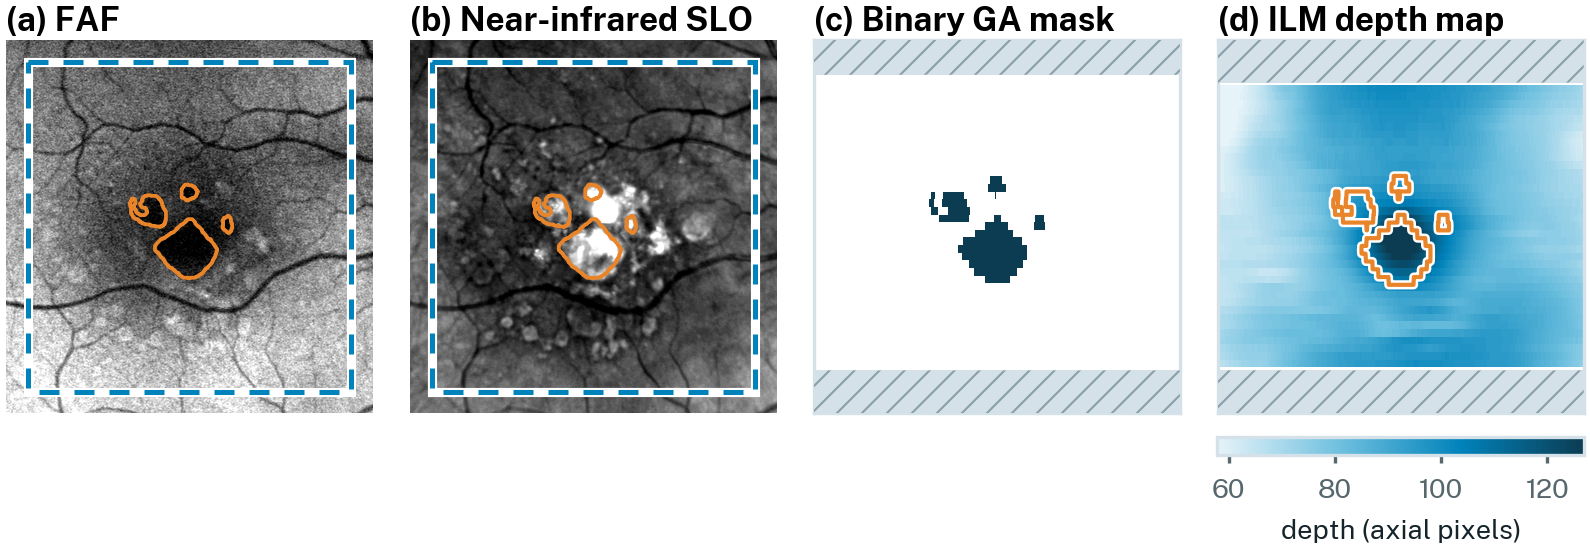
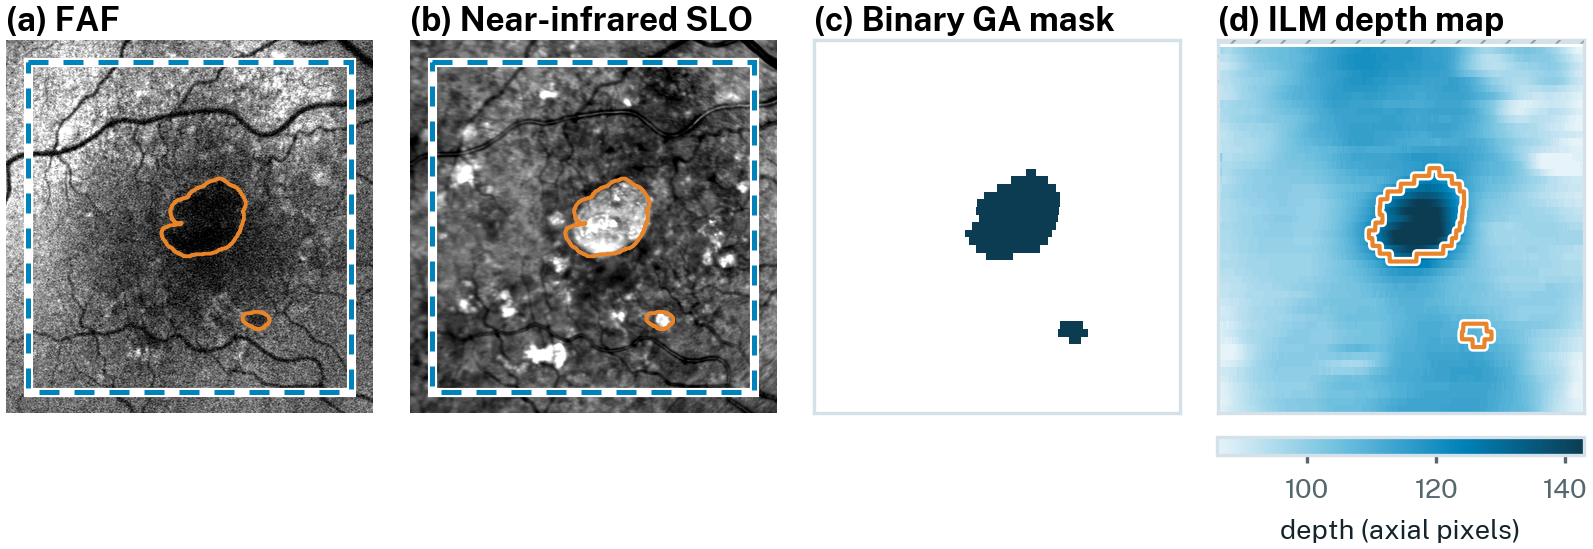
Fig. 3.1: eye PEAT0058_OD day 360 (ILM depth follows the lesion better: overlap 0.87 vs 0.62); caption numbers recomputed

diff --git a/03-data.tex b/03-data.tex
@@ -112,21 +112,23 @@ distributions are shown in Appendix~\ref{app:dataset}
 % (if wanted for the comparison in 5.5.1).
 
 % Figure fig:data:example-state: images/scripts/fig_data_example_state.py
-% (read-only source data/MUW_GA/scans/PEAT0021_OD/0/; same eye and day as
-% fig:bg:ga-faf (a)). Native grid 38 x 1059, so 22.4 % of the window is zero
-% padding (11 rows); 2.0 % of the window lies inside the scan without an ILM
-% value. mask_global through T_mask reproduces mask_oct at IoU 1.000.
-% Median brightness inside the lesion / in a 30 px ring around it: SLO
-% 124 / 93, FAF 63 / 90 (2026-10-20). The bright SLO spots outside the
-% outline are not dark on FAF; what they are is not recorded in the data.
-% Median ILM depth 114 axial px inside the lesion, 83 outside; retinal
-% thickness (channel 10 - channel 1) 66 inside, 83 outside.
+% (read-only source data/MUW_GA/scans/PEAT0058_OD/360/). Eye chosen by the
+% author (2026-10-20) from six candidates: the visits whose deepest ILM
+% pixels, as many as the lesion has, overlap the lesion best (Dice 0.87;
+% cohort median 0.64; earlier choice PEAT0021_OD day 0: 0.62), lesion not
+% touching the window edge. Native grid 49 x 1034: no zero padding; 2.1 %
+% of the window lies inside the scan without an ILM value. mask_global
+% through T_mask reproduces mask_oct at IoU 1.000. Median brightness inside
+% the lesion / in a 30 px ring around it: SLO 88 / 62, FAF 25 / 47. The
+% bright SLO spots outside the outline are not dark on FAF; what they are
+% is not recorded in the data. Median ILM depth 132 axial px inside the
+% lesion, 102 outside; retinal thickness (channel 10 - channel 1) 56
+% inside, 74 outside.
 \begin{figure}[t]
   \centering
   \includegraphics[width=\textwidth]{images/fig_data_example_state.png}
   \caption[One visit of the MUW cohort.]{%
-    One visit of the MUW cohort: the first visit of the eye shown in
-    Figure~\ref{fig:bg:ga-faf}. In (a) and (b), the dashed square marks
+    One visit of the MUW cohort. In (a) and (b), the dashed square marks
     the $49 \times 1024$ modelling window and the orange line the outline
     of the GA annotation.
     \emph{(a)}~FAF image, on which the lesion was annotated. The lesion
@@ -137,12 +139,11 @@ distributions are shown in Appendix~\ref{app:dataset}
     \emph{(c)}~The binary GA mask (channel~0) on the modelling grid, drawn
     at its physical aspect ratio of about $5.94 \times 5.82$\,mm; each
     pixel is about 21 times taller than it is wide, which shows as steps
-    along the lesion outline. The native grid of this eye has 38 rows, so
-    the window is zero-padded at the top and bottom (hatched).
+    along the lesion outline.
     \emph{(d)}~The depth map of the inner limiting membrane (channel~1) on
     the same grid, in axial pixels, with the lesion outline from (c).
     The membrane lies deeper inside the lesion, where the retina is
-    thinner. Hatched: positions without data.
+    thinner. Hatched: positions without a depth value.
     Panels (c) and (d) show two of the eleven channels of the state
     tensor before normalisation.}
   \label{fig:data:example-state}

diff --git a/images/scripts/fig_data_example_state.py b/images/scripts/fig_data_example_state.py
@@ -2,14 +2,16 @@
 
     cd images/scripts && python fig_data_example_state.py
 
-Panels (one visit, same eye and baseline day as fig:bg:ga-faf, PEAT0021_OD day 0):
+Panels (one visit, PEAT0058_OD day 360, chosen by the author 2026-10-20 from six candidates:
+the visits whose deepest ILM pixels, as many as the lesion has, overlap the lesion best
+(Dice 0.87; cohort median 0.64), lesion not touching the window edge):
   (a) FAF image (faf_global.png) and (b) near-infrared SLO image (slo_global.png), each
       contrast-stretched on its own (1st-99th percentile), with the 49 x 1024 modelling
       window drawn through the visit's T_mask (as in fig_bg_ga_faf.py) and the outline of
       the GA mask in the global frame (mask_global.png). Both are shown because the
       lesion looks different on the two: bright on the SLO, dark on FAF, where it was
       annotated; other bright spots on the SLO are not part of the annotation
-      (median brightness inside / in a 30 px ring: SLO 124 / 93, FAF 63 / 90);
+      (median brightness inside / in a 30 px ring: SLO 88 / 62, FAF 25 / 47);
   (c) channel 0, the binary GA mask on the 49 x 1024 modelling grid (centre crop /
       zero pad of mask_oct.png, same arithmetic as the precompute), at the physical
       aspect ratio, nearest-neighbour, so the tall thin pixels are visible;
@@ -36,7 +38,7 @@ from _common import setup, save, panel_label, SCANS, NROWS, NCOLS, LX_MM, LY_MM,
 from fig_appendix_cohort import _crop_slices
 from fig_bg_ga_faf import window_global, stretch
 
-EYE, DAY = "PEAT0021_OD", 0
+EYE, DAY = "PEAT0058_OD", 360
 CHANNEL = 1            # ILM (most superficial boundary)
 MARGIN_MM = 0.4
 

diff --git a/NOTES.md b/NOTES.md
@@ -1377,6 +1377,12 @@ Planned in the text (9 placeholders + 2 appendix chapters), in working order:
   SLO 124 / 93, FAF 63 / 90. §3.1 sentence reworded.
   Later the same day (author): order swapped to (a) FAF, (b) SLO; each panel now carries its title
   (FAF / Near-infrared SLO / Binary GA mask / ILM depth map).
+  Eye changed (author, "this maybe"): PEAT0058_OD day 360 instead of PEAT0021_OD day 0, because
+  the dark area of the ILM map did not follow the lesion well. Ranking: overlap (Dice) of the N deepest
+  ILM pixels with the lesion (N = lesion size), visits whose lesion does not touch the window edge:
+  chosen 0.87, old 0.62, cohort median 0.64; six candidates rendered. No zero padding at this visit;
+  the caption no longer links the figure to Fig. 2.3. Caption numbers recomputed (SLO 88 / 62, FAF
+  25 / 47; ILM 132 vs 102 axial px; thickness 56 vs 74).
 - [ ] Fig. 2.5 (author 2026-10-20: "from the vis I don't get it"): the TikZ version stays in for now; a
   three-panel bar redesign (values u_i^k with the stencil -> rates f_i -> u^{k+1} = u^k + dt f with
   the old heights dashed; one real heat-equation step) was proposed, awaiting the author's answer.
